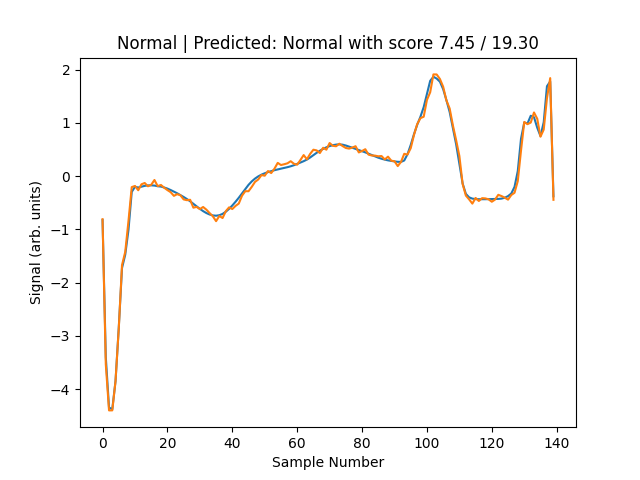
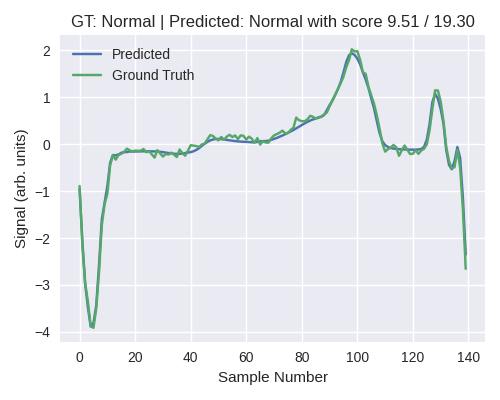
updated plotting

Changed region(s): [[0.03, 0.03, 0.96, 0.99], [0.87, 0.03, 0.96, 0.09]]

diff --git a/eval.py b/eval.py
@@ -3,10 +3,11 @@ import torch
 import torch.nn as nn
 from torch.utils.data import DataLoader, Dataset
 import matplotlib.pyplot as plt
+
 from model import LSTMAutoencoder
 from ecg_dataset import FakeECG, ECG5000
 
-
+plt.style.use('seaborn')
 
 
 def get_device():
@@ -97,14 +98,15 @@ if __name__=="__main__":
         batch = batch.cpu().numpy().flatten()
 
         # Plotto i riusultati a confronto
-        plt.figure()
+        plt.figure(figsize=(5,4))
         plt.plot(pred, label='Predicted')
         plt.plot(batch, label='Ground Truth')
         plt.xlabel("Sample Number")
         plt.ylabel("Signal (arb. units)")
         gt = "Anomaly" if test else "Normal"
-        plt.title(gt + " | Predicted: " + check_for_anomaly(loss.item(), threshold) + f" with score {loss.item():.2f} / {threshold:.2f}")
-        plt.savefig("images/fig_{0}_{1}.png".format(t_idx+1, gt))
+        plt.title("GT: "+gt+" | Predicted: " + check_for_anomaly(loss.item(), threshold) + f" with score {loss.item():.2f} / {threshold:.2f}")
         plt.legend()
+        plt.tight_layout()
+        plt.savefig("images/fig_{0}_{1}.png".format(t_idx+1, gt))
 
     plt.show()
